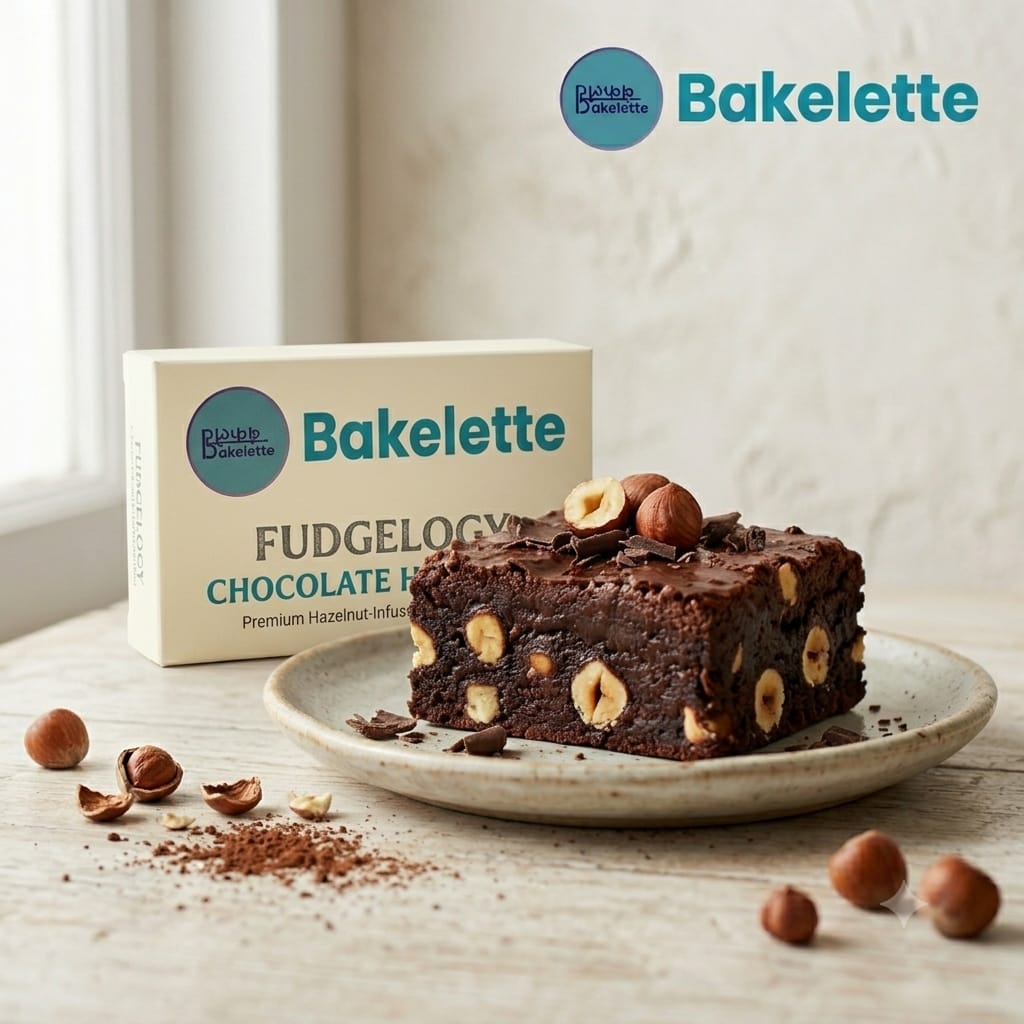
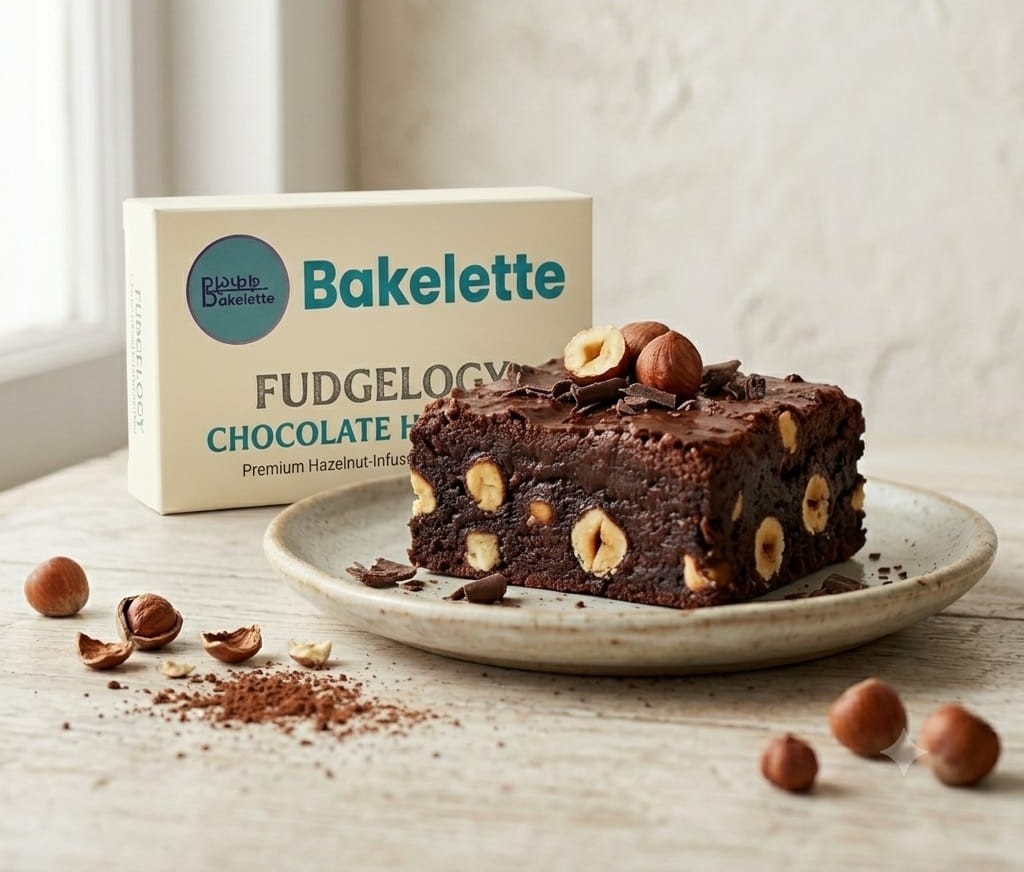
Update loyalty rewards with brand colors and enhanced information
- Change stamp colors from green to teal (primary brand color)
- Update terminology: 'tick' → 'stamp' for consistency
- Change button text to 'Unlock premium surprise or discount'
- Fix WhatsApp link to include contact number
- Add comprehensive loyalty card section to How It Works page
- Explain first-time customer receives physical card
- Display step-by-step process with brand colors
- Add visual rewards highlight box
- Improve accessibility and alignment with website palette

diff --git a/src/components/HowItWorks.tsx b/src/components/HowItWorks.tsx
@@ -32,6 +32,61 @@ const HowItWorks = () => (
           </div>
         ))}
       </div>
+
+      {/* Loyalty Card Section */}
+      <div className="mt-16 pt-12 border-t border-border">
+        <div className="max-w-3xl mx-auto">
+          <div className="text-center mb-12">
+            <span className="text-primary uppercase tracking-[0.25em] text-xs font-semibold">Earn Rewards</span>
+            <h3 className="mt-4 text-3xl md:text-4xl text-foreground">
+              Bakelette <em className="font-script text-primary">Loyalty Card</em>
+            </h3>
+            <p className="mt-4 text-muted-foreground text-base">
+              Every order brings you closer to amazing rewards!
+            </p>
+          </div>
+
+          <div className="grid md:grid-cols-2 gap-8 items-center">
+            {/* Left - Info */}
+            <div className="space-y-4">
+              <div className="bg-gradient-to-br from-primary/5 via-primary/3 to-transparent rounded-2xl p-6 border border-primary/10">
+                <h4 className="text-lg font-bold text-primary mb-4">How the Loyalty Program Works:</h4>
+                <ul className="space-y-3">
+                  <li className="flex gap-3">
+                    <span className="inline-flex items-center justify-center w-6 h-6 rounded-full bg-primary text-primary-foreground text-sm font-bold flex-shrink-0">✓</span>
+                    <span className="text-foreground"><strong>First order:</strong> Receive a physical loyalty card</span>
+                  </li>
+                  <li className="flex gap-3">
+                    <span className="inline-flex items-center justify-center w-6 h-6 rounded-full bg-primary text-primary-foreground text-sm font-bold flex-shrink-0">✓</span>
+                    <span className="text-foreground"><strong>Every order:</strong> Get a stamp on one circle</span>
+                  </li>
+                  <li className="flex gap-3">
+                    <span className="inline-flex items-center justify-center w-6 h-6 rounded-full bg-primary text-primary-foreground text-sm font-bold flex-shrink-0">✓</span>
+                    <span className="text-foreground"><strong>Complete 4 stamps:</strong> WhatsApp us the card photo</span>
+                  </li>
+                  <li className="flex gap-3">
+                    <span className="inline-flex items-center justify-center w-6 h-6 rounded-full bg-primary text-primary-foreground text-sm font-bold flex-shrink-0">✓</span>
+                    <span className="text-foreground"><strong>5th order:</strong> Unlock a premium surprise bake or exclusive discount</span>
+                  </li>
+                </ul>
+              </div>
+            </div>
+
+            {/* Right - Highlight */}
+            <div className="bg-gradient-to-br from-primary via-primary-glow to-primary/80 rounded-3xl p-8 shadow-glow text-primary-foreground">
+              <div className="text-center">
+                <p className="text-sm font-semibold uppercase tracking-wider opacity-90 mb-3">Your Rewards</p>
+                <h5 className="text-4xl font-bold mb-4">1 Order</h5>
+                <p className="text-lg font-semibold mb-6 opacity-95">= 1 Stamp</p>
+                <div className="h-px bg-primary-foreground/30 my-6"></div>
+                <h5 className="text-3xl font-bold mb-2">4 Stamps</h5>
+                <p className="text-lg font-semibold opacity-95">= Premium Reward</p>
+              </div>
+            </div>
+          </div>
+        </div>
+      </div>
+
       <p className="mt-12 text-center text-muted-foreground">
         💡 <strong className="text-foreground">Note:</strong> 25% advance is required to confirm all orders.
       </p>

diff --git a/src/components/LoyaltyCard.tsx b/src/components/LoyaltyCard.tsx
@@ -4,10 +4,10 @@ import { MessageCircle, X } from "lucide-react";
 const LoyaltyCard = () => {
   const [isExpanded, setIsExpanded] = useState(false);
 
-  const handleCheckStamps = () => {
+  const handleRedeemReward = () => {
     // Open WhatsApp link to redeem rewards
-    const message = encodeURIComponent("Hi Bakelette! I've completed my loyalty card and would like to redeem my reward!");
-    window.open(`https://wa.me/?text=${message}`, "_blank");
+    const message = encodeURIComponent("Hi Bakelette! I've completed my loyalty card with 4 stamps and would like to redeem my reward!");
+    window.open(`https://wa.me/919876543210?text=${message}`, "_blank");
   };
 
   return (
@@ -16,7 +16,7 @@ const LoyaltyCard = () => {
       {!isExpanded && (
         <button
           onClick={() => setIsExpanded(true)}
-          className="w-14 h-14 bg-green-500 rounded-full shadow-xl flex items-center justify-center text-white hover:scale-110 transition-transform duration-300 hover:shadow-2xl hover:bg-green-600"
+          className="w-14 h-14 bg-gradient-primary rounded-full shadow-xl flex items-center justify-center text-primary-foreground hover:scale-110 transition-transform duration-300 hover:shadow-glow"
           aria-label="Open loyalty card"
           title="Bakelette Loyalty Card"
         >
@@ -36,22 +36,22 @@ const LoyaltyCard = () => {
 
           {/* Card Container - Compact Modal */}
           <div className="fixed inset-0 md:inset-auto md:left-4 md:bottom-20 z-50 flex items-center justify-center md:items-end md:justify-start p-3 md:p-0">
-            <div className="w-[calc(100%-1.5rem)] sm:w-[calc(100%-2rem)] md:w-96 max-h-[70vh] md:max-h-[75vh] bg-white rounded-2xl shadow-xl border border-gray-200 overflow-hidden flex flex-col animate-fade-in">
-              {/* Green Header with Close Button */}
-              <div className="bg-gradient-to-r from-green-500 to-green-600 p-3 md:p-4 relative text-white flex-shrink-0 rounded-t-2xl">
+            <div className="w-[calc(100%-1.5rem)] sm:w-[calc(100%-2rem)] md:w-96 max-h-[70vh] md:max-h-[75vh] bg-white rounded-2xl shadow-xl border border-border overflow-hidden flex flex-col animate-fade-in">
+              {/* Teal Header with Close Button */}
+              <div className="bg-gradient-primary p-3 md:p-4 relative text-primary-foreground flex-shrink-0 rounded-t-2xl">
                 {/* Close Button */}
                 <button
                   onClick={() => setIsExpanded(false)}
-                  className="absolute top-3 right-3 w-8 h-8 rounded-full bg-white/30 hover:bg-white/50 flex items-center justify-center transition-colors z-50"
+                  className="absolute top-3 right-3 w-8 h-8 rounded-full bg-primary-foreground/20 hover:bg-primary-foreground/30 flex items-center justify-center transition-colors z-50"
                   aria-label="Close loyalty card"
                 >
-                  <X className="w-5 h-5 text-white" strokeWidth={3} />
+                  <X className="w-5 h-5 text-primary-foreground" strokeWidth={3} />
                 </button>
 
                 {/* Header Content */}
                 <div className="pr-10">
                   <h3 className="text-lg font-bold leading-tight">Bakelette Loyalty</h3>
-                  <p className="text-xs font-medium text-green-100 mt-0.5">
+                  <p className="text-xs font-medium text-primary-foreground/80 mt-0.5">
                     Earn rewards on every order
                   </p>
                 </div>
@@ -60,15 +60,15 @@ const LoyaltyCard = () => {
               {/* Main Content - Compact */}
               <div className="flex-1 overflow-y-auto p-3 md:p-4 space-y-3 md:space-y-4 bg-white">
                 {/* Info Box */}
-                <div className="bg-green-50 rounded-lg border border-green-200 p-3">
+                <div className="bg-primary/5 rounded-lg border border-primary/20 p-3">
                   <div className="space-y-1 text-center">
-                    <p className="text-sm font-bold text-green-700">
-                      1 ORDER = 1 TICK
+                    <p className="text-sm font-bold text-primary">
+                      1 ORDER = 1 STAMP
                     </p>
-                    <p className="text-base font-bold text-green-600">
-                      4 TICKS = REWARD
+                    <p className="text-base font-bold text-primary">
+                      4 STAMPS = REWARD
                     </p>
-                    <p className="text-xs text-green-600 mt-1">
+                    <p className="text-xs text-primary/70 mt-1">
                       Physical card with 1st order
                     </p>
                   </div>
@@ -76,38 +76,38 @@ const LoyaltyCard = () => {
 
                 {/* How it works - Compact */}
                 <div className="space-y-2">
-                  <h4 className="text-sm font-bold text-gray-900">How it works:</h4>
+                  <h4 className="text-sm font-bold text-foreground">How it works:</h4>
                   <div className="space-y-1.5 text-xs">
                     {/* Step 1 */}
                     <div className="flex gap-2">
-                      <span className="inline-flex items-center justify-center w-5 h-5 rounded-full bg-green-500 text-white font-bold text-xs flex-shrink-0">1</span>
-                      <span className="text-gray-700 leading-tight"><span className="font-semibold">Place tick</span> on circle with every order</span>
+                      <span className="inline-flex items-center justify-center w-5 h-5 rounded-full bg-primary text-primary-foreground font-bold text-xs flex-shrink-0">1</span>
+                      <span className="text-foreground leading-tight"><span className="font-semibold">Place stamp</span> on circle with every order</span>
                     </div>
 
                     {/* Step 2 */}
                     <div className="flex gap-2">
-                      <span className="inline-flex items-center justify-center w-5 h-5 rounded-full bg-green-500 text-white font-bold text-xs flex-shrink-0">2</span>
-                      <span className="text-gray-700 leading-tight"><span className="font-semibold">Complete 4</span> circles on card</span>
+                      <span className="inline-flex items-center justify-center w-5 h-5 rounded-full bg-primary text-primary-foreground font-bold text-xs flex-shrink-0">2</span>
+                      <span className="text-foreground leading-tight"><span className="font-semibold">Complete 4</span> stamps on card</span>
                     </div>
 
                     {/* Step 3 */}
                     <div className="flex gap-2">
-                      <span className="inline-flex items-center justify-center w-5 h-5 rounded-full bg-green-500 text-white font-bold text-xs flex-shrink-0">3</span>
-                      <span className="text-gray-700 leading-tight"><span className="font-semibold">WhatsApp</span> photo to redeem</span>
+                      <span className="inline-flex items-center justify-center w-5 h-5 rounded-full bg-primary text-primary-foreground font-bold text-xs flex-shrink-0">3</span>
+                      <span className="text-foreground leading-tight"><span className="font-semibold">WhatsApp</span> photo to redeem</span>
                     </div>
 
                     {/* Step 4 */}
                     <div className="flex gap-2">
-                      <span className="inline-flex items-center justify-center w-5 h-5 rounded-full bg-green-500 text-white font-bold text-xs flex-shrink-0">✓</span>
-                      <span className="text-gray-700 leading-tight"><span className="font-semibold">Unlock</span> reward on 5th order</span>
+                      <span className="inline-flex items-center justify-center w-5 h-5 rounded-full bg-primary text-primary-foreground font-bold text-xs flex-shrink-0">✓</span>
+                      <span className="text-foreground leading-tight"><span className="font-semibold">Unlock</span> premium surprise or discount</span>
                     </div>
                   </div>
                 </div>
 
                 {/* CTA Button */}
                 <button
-                  onClick={handleCheckStamps}
-                  className="w-full bg-green-500 hover:bg-green-600 text-white font-bold py-2 px-3 rounded-lg transition-all active:scale-95 text-sm"
+                  onClick={handleRedeemReward}
+                  className="w-full bg-gradient-primary hover:shadow-glow text-primary-foreground font-bold py-2 px-3 rounded-lg transition-all active:scale-95 text-sm"
                 >
                   Redeem Now
                 </button>